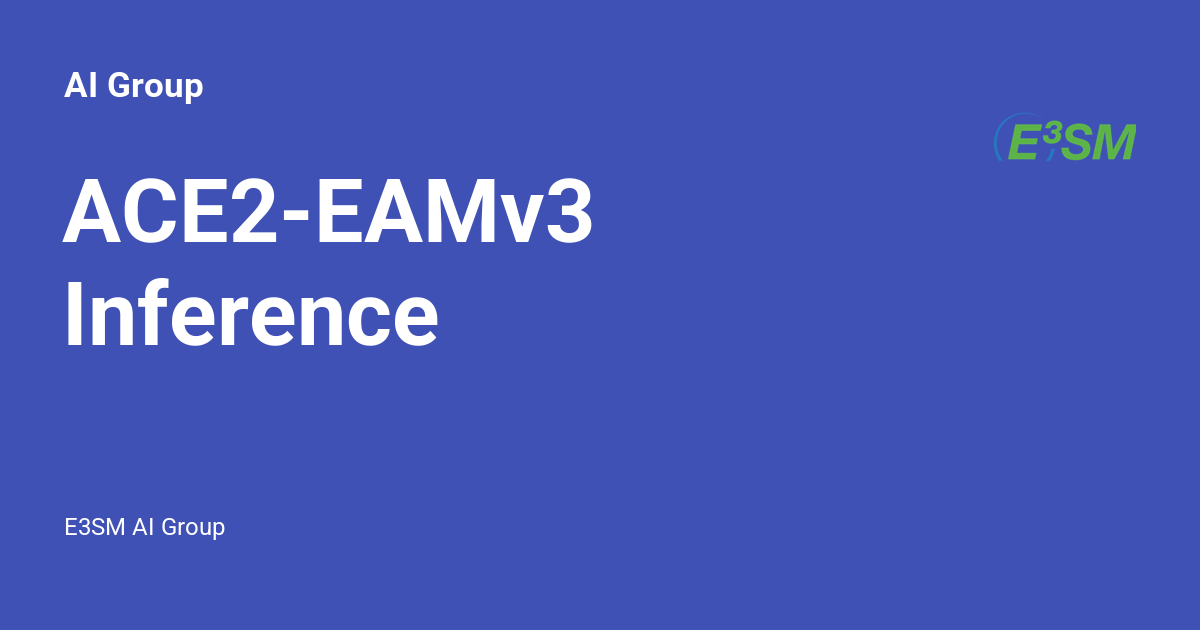
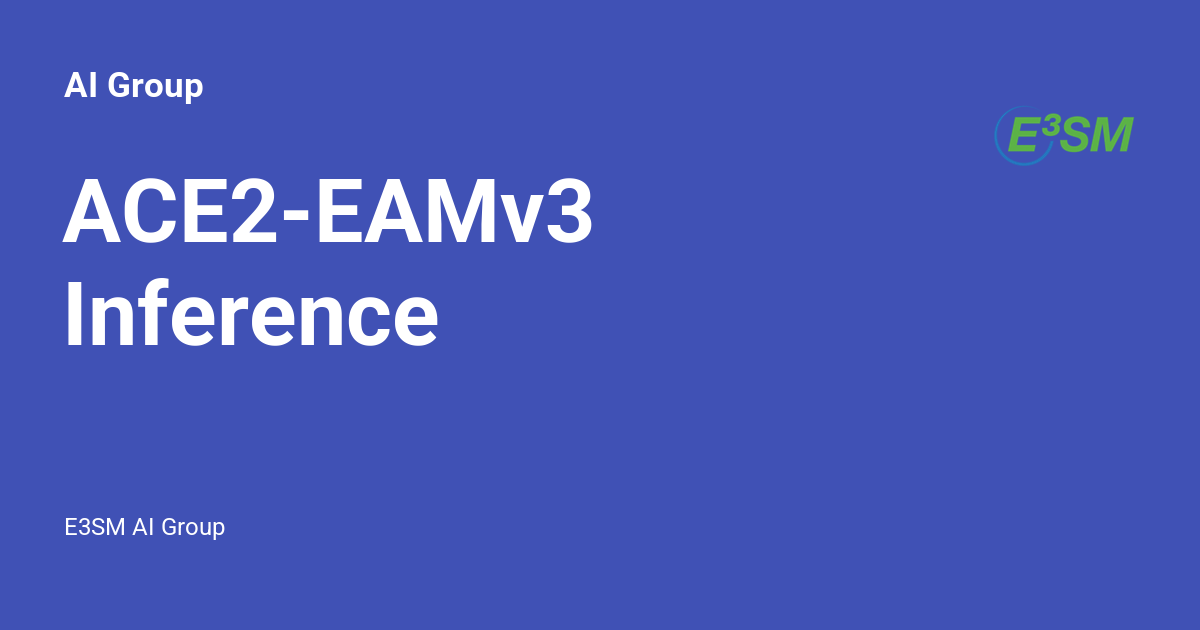
Deploy preview for PR 22 🛫

Changed region(s): [[0.8325, 0.181, 0.9558, 0.2714]]

diff --git a/pr-preview/pr-22/404.html b/pr-preview/pr-22/404.html
@@ -16,7 +16,7 @@
         
       
       
-      <link rel="icon" href="/aigroup/assets/images/E3SM_Icon_512.png">
+      <link rel="icon" href="/aigroup/assets/images/E3SM_Icon_270.png">
       <meta name="generator" content="mkdocs-1.6.1, mkdocs-material-9.7.1">
     
     
@@ -87,7 +87,7 @@
   <nav class="md-header__inner md-grid" aria-label="Header">
     <a href="/aigroup/." title="AI Group" class="md-header__button md-logo" aria-label="AI Group" data-md-component="logo">
       
-  <img src="/aigroup/assets/images/E3SM_Icon_512.png" alt="logo">
+  <img src="/aigroup/assets/images/E3SM_Logo.png" alt="logo">
 
     </a>
     <label class="md-header__button md-icon" for="__drawer">
@@ -281,7 +281,7 @@
   <label class="md-nav__title" for="__drawer">
     <a href="/aigroup/." title="AI Group" class="md-nav__button md-logo" aria-label="AI Group" data-md-component="logo">
       
-  <img src="/aigroup/assets/images/E3SM_Icon_512.png" alt="logo">
+  <img src="/aigroup/assets/images/E3SM_Logo.png" alt="logo">
 
     </a>
     AI Group

diff --git a/pr-preview/pr-22/ace2-inference/index.html b/pr-preview/pr-22/ace2-inference/index.html
@@ -20,7 +20,7 @@
         
       
       
-      <link rel="icon" href="../assets/images/E3SM_Icon_512.png">
+      <link rel="icon" href="../assets/images/E3SM_Icon_270.png">
       <meta name="generator" content="mkdocs-1.6.1, mkdocs-material-9.7.1">
     
     
@@ -109,7 +109,7 @@
   <nav class="md-header__inner md-grid" aria-label="Header">
     <a href=".." title="AI Group" class="md-header__button md-logo" aria-label="AI Group" data-md-component="logo">
       
-  <img src="../assets/images/E3SM_Icon_512.png" alt="logo">
+  <img src="../assets/images/E3SM_Logo.png" alt="logo">
 
     </a>
     <label class="md-header__button md-icon" for="__drawer">
@@ -305,7 +305,7 @@
   <label class="md-nav__title" for="__drawer">
     <a href=".." title="AI Group" class="md-nav__button md-logo" aria-label="AI Group" data-md-component="logo">
       
-  <img src="../assets/images/E3SM_Icon_512.png" alt="logo">
+  <img src="../assets/images/E3SM_Logo.png" alt="logo">
 
     </a>
     AI Group

diff --git a/pr-preview/pr-22/ace2-workflow/index.html b/pr-preview/pr-22/ace2-workflow/index.html
@@ -22,7 +22,7 @@
         
       
       
-      <link rel="icon" href="../assets/images/E3SM_Icon_512.png">
+      <link rel="icon" href="../assets/images/E3SM_Icon_270.png">
       <meta name="generator" content="mkdocs-1.6.1, mkdocs-material-9.7.1">
     
     
@@ -111,7 +111,7 @@
   <nav class="md-header__inner md-grid" aria-label="Header">
     <a href=".." title="AI Group" class="md-header__button md-logo" aria-label="AI Group" data-md-component="logo">
       
-  <img src="../assets/images/E3SM_Icon_512.png" alt="logo">
+  <img src="../assets/images/E3SM_Logo.png" alt="logo">
 
     </a>
     <label class="md-header__button md-icon" for="__drawer">
@@ -307,7 +307,7 @@
   <label class="md-nav__title" for="__drawer">
     <a href=".." title="AI Group" class="md-nav__button md-logo" aria-label="AI Group" data-md-component="logo">
       
-  <img src="../assets/images/E3SM_Icon_512.png" alt="logo">
+  <img src="../assets/images/E3SM_Logo.png" alt="logo">
 
     </a>
     AI Group

diff --git a/pr-preview/pr-22/python-envs/index.html b/pr-preview/pr-22/python-envs/index.html
@@ -22,7 +22,7 @@
         
       
       
-      <link rel="icon" href="../assets/images/E3SM_Icon_512.png">
+      <link rel="icon" href="../assets/images/E3SM_Icon_270.png">
       <meta name="generator" content="mkdocs-1.6.1, mkdocs-material-9.7.1">
     
     
@@ -111,7 +111,7 @@
   <nav class="md-header__inner md-grid" aria-label="Header">
     <a href=".." title="AI Group" class="md-header__button md-logo" aria-label="AI Group" data-md-component="logo">
       
-  <img src="../assets/images/E3SM_Icon_512.png" alt="logo">
+  <img src="../assets/images/E3SM_Logo.png" alt="logo">
 
     </a>
     <label class="md-header__button md-icon" for="__drawer">
@@ -307,7 +307,7 @@
   <label class="md-nav__title" for="__drawer">
     <a href=".." title="AI Group" class="md-nav__button md-logo" aria-label="AI Group" data-md-component="logo">
       
-  <img src="../assets/images/E3SM_Icon_512.png" alt="logo">
+  <img src="../assets/images/E3SM_Logo.png" alt="logo">
 
     </a>
     AI Group

diff --git a/pr-preview/pr-22/screamv1-example/index.html b/pr-preview/pr-22/screamv1-example/index.html
@@ -22,7 +22,7 @@
         
       
       
-      <link rel="icon" href="../assets/images/E3SM_Icon_512.png">
+      <link rel="icon" href="../assets/images/E3SM_Icon_270.png">
       <meta name="generator" content="mkdocs-1.6.1, mkdocs-material-9.7.1">
     
     
@@ -111,7 +111,7 @@
   <nav class="md-header__inner md-grid" aria-label="Header">
     <a href=".." title="AI Group" class="md-header__button md-logo" aria-label="AI Group" data-md-component="logo">
       
-  <img src="../assets/images/E3SM_Icon_512.png" alt="logo">
+  <img src="../assets/images/E3SM_Logo.png" alt="logo">
 
     </a>
     <label class="md-header__button md-icon" for="__drawer">
@@ -307,7 +307,7 @@
   <label class="md-nav__title" for="__drawer">
     <a href=".." title="AI Group" class="md-nav__button md-logo" aria-label="AI Group" data-md-component="logo">
       
-  <img src="../assets/images/E3SM_Icon_512.png" alt="logo">
+  <img src="../assets/images/E3SM_Logo.png" alt="logo">
 
     </a>
     AI Group

diff --git a/pr-preview/pr-22/index.html b/pr-preview/pr-22/index.html
@@ -20,7 +20,7 @@
         
       
       
-      <link rel="icon" href="assets/images/E3SM_Icon_512.png">
+      <link rel="icon" href="assets/images/E3SM_Icon_270.png">
       <meta name="generator" content="mkdocs-1.6.1, mkdocs-material-9.7.1">
     
     
@@ -109,7 +109,7 @@
   <nav class="md-header__inner md-grid" aria-label="Header">
     <a href="." title="AI Group" class="md-header__button md-logo" aria-label="AI Group" data-md-component="logo">
       
-  <img src="assets/images/E3SM_Icon_512.png" alt="logo">
+  <img src="assets/images/E3SM_Logo.png" alt="logo">
 
     </a>
     <label class="md-header__button md-icon" for="__drawer">
@@ -307,7 +307,7 @@
   <label class="md-nav__title" for="__drawer">
     <a href="." title="AI Group" class="md-nav__button md-logo" aria-label="AI Group" data-md-component="logo">
       
-  <img src="assets/images/E3SM_Icon_512.png" alt="logo">
+  <img src="assets/images/E3SM_Logo.png" alt="logo">
 
     </a>
     AI Group

diff --git a/pr-preview/pr-22/assets/stylesheets/extra.css b/pr-preview/pr-22/assets/stylesheets/extra.css
@@ -50,7 +50,7 @@
 /* Dark mode logo adjustments - swap to night version */
 [data-md-color-scheme="slate"] .md-header__button.md-logo img {
   filter: drop-shadow(0 1px 3px rgba(0, 0, 0, 0.4));
-  content: url("../images/E3SM_Icon_512.png");
+  content: url("../images/E3SM_Logo.png");
 }
 
 /* Also swap logo in hero section for dark mode */
